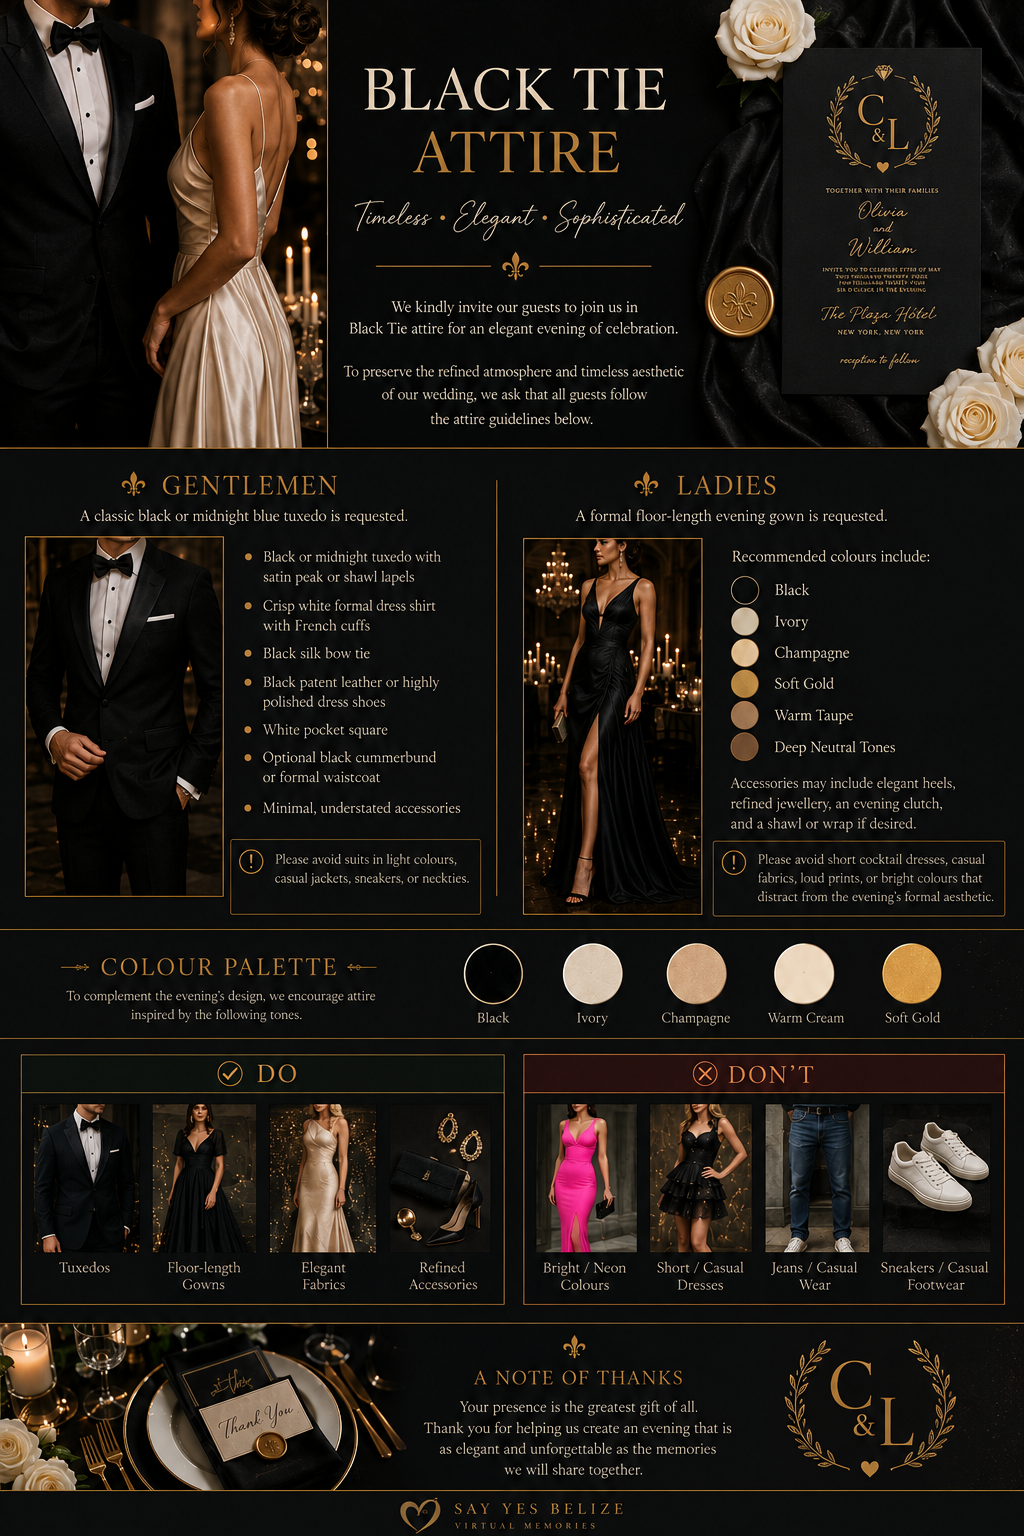
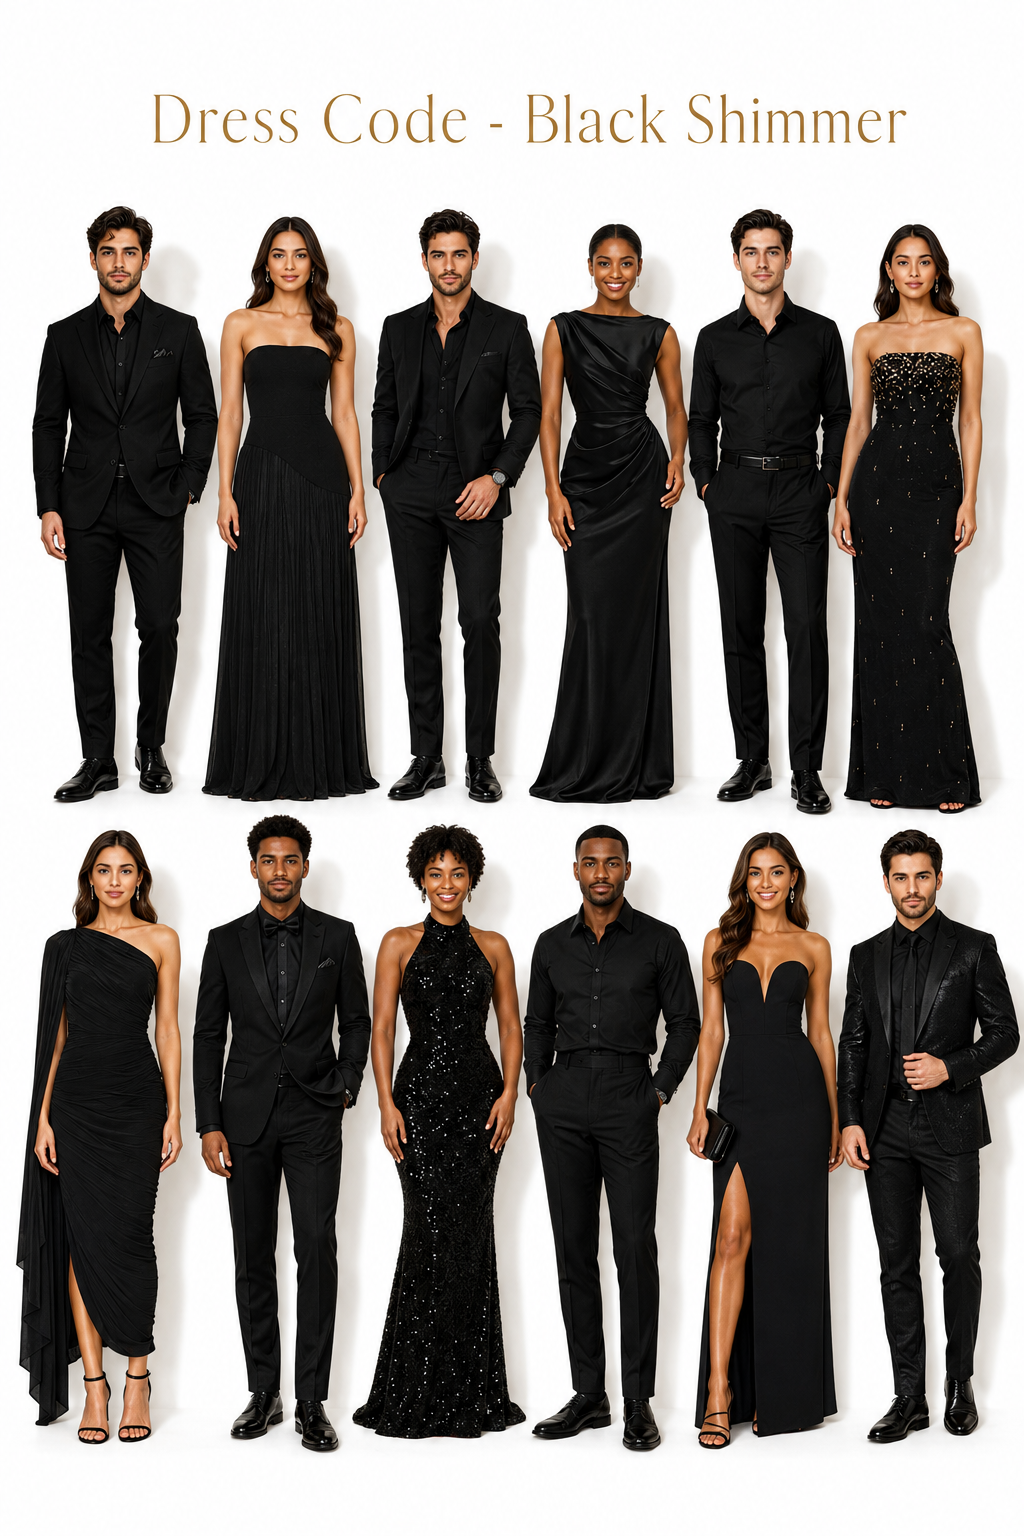
fix: add dress code.png as Dress Code photo, unignore for Vercel
- .vercelignore: remove dress code.png so it deploys
- index.html: fix src from ../dress%20code.png → dress%20code.png (root) for visual + modal + download
- dress code.png updated (1963231 B) — premium black dress code guide

diff --git a/index.html b/index.html
@@ -1401,7 +1401,7 @@ h2.font-headline-lg, h2.font-headline-xl, h3.font-headline-md { transform-origin
   <div class="inner max-w-[1200px] mx-auto px-5 sm:px-container-padding py-12">
     <div id="dresscode" class="mx-auto max-w-[720px] text-center rounded-[20px] p-6 sm:p-8 rv-up" style="background: rgba(18,16,12,0.96); border: 1px solid #7d541b; box-shadow: 0 8px 32px rgba(0,0,0,0.5), inset 0 1px 0 rgba(255,255,255,0.04);">
       <div class="dresscode-visual" onclick="if (window.openDressCode) openDressCode()" aria-label="Open the dress code guide">
-        <img src="../dress code.png" alt="Dress code guide" loading="lazy"/>
+        <img src="dress%20code.png" alt="Dress code guide" loading="lazy"/>
       </div>
       <span class="block text-[10px] tracking-[0.32em] uppercase mb-3" style="color: #c49948; font-family:'Be Vietnam Pro',sans-serif;">Dress Code</span>
       <h3 class="font-bold uppercase tracking-[0.18em] mb-2" style="font-family:'Cinzel','Playfair Display',serif; color:#FFF8E6; font-size: 22px;">Black dress code</h3>
@@ -3496,9 +3496,9 @@ function fallbackCopy(text) {
 </script>
 <!-- Dress code fullscreen viewer -->
 <div id="dressOverlay" class="hidden fixed inset-0 z-[10001] bg-black/90 backdrop-blur-md flex items-center justify-center cursor-pointer" onclick="if(event.target===this)closeDressCode()">
-<img src="../dress code.png" alt="Dress code guide" class="max-w-[92vw] max-h-[88vh] w-auto h-auto object-contain select-none" style="box-shadow:0 0 80px rgba(212,175,55,.28)"/>
+<img src="dress%20code.png" alt="Dress code guide" class="max-w-[92vw] max-h-[88vh] w-auto h-auto object-contain select-none" style="box-shadow:0 0 80px rgba(212,175,55,.28)"/>
 <div class="absolute top-4 right-4 flex gap-3">
-<a href="../dress code.png" download="Dress-Code.png" onclick="event.stopPropagation()" class="w-11 h-11 rounded-full bg-white/10 hover:bg-white/20 text-white flex items-center justify-center transition-colors no-underline" aria-label="Download dress code">
+<a href="dress%20code.png" download="Dress-Code.png" onclick="event.stopPropagation()" class="w-11 h-11 rounded-full bg-white/10 hover:bg-white/20 text-white flex items-center justify-center transition-colors no-underline" aria-label="Download dress code">
 <span class="material-symbols-outlined" data-icon="download">download</span>
 </a>
 <button onclick="event.stopPropagation();closeDressCode()" class="w-11 h-11 rounded-full bg-white/10 hover:bg-white/20 text-white flex items-center justify-center transition-colors" aria-label="Close">
